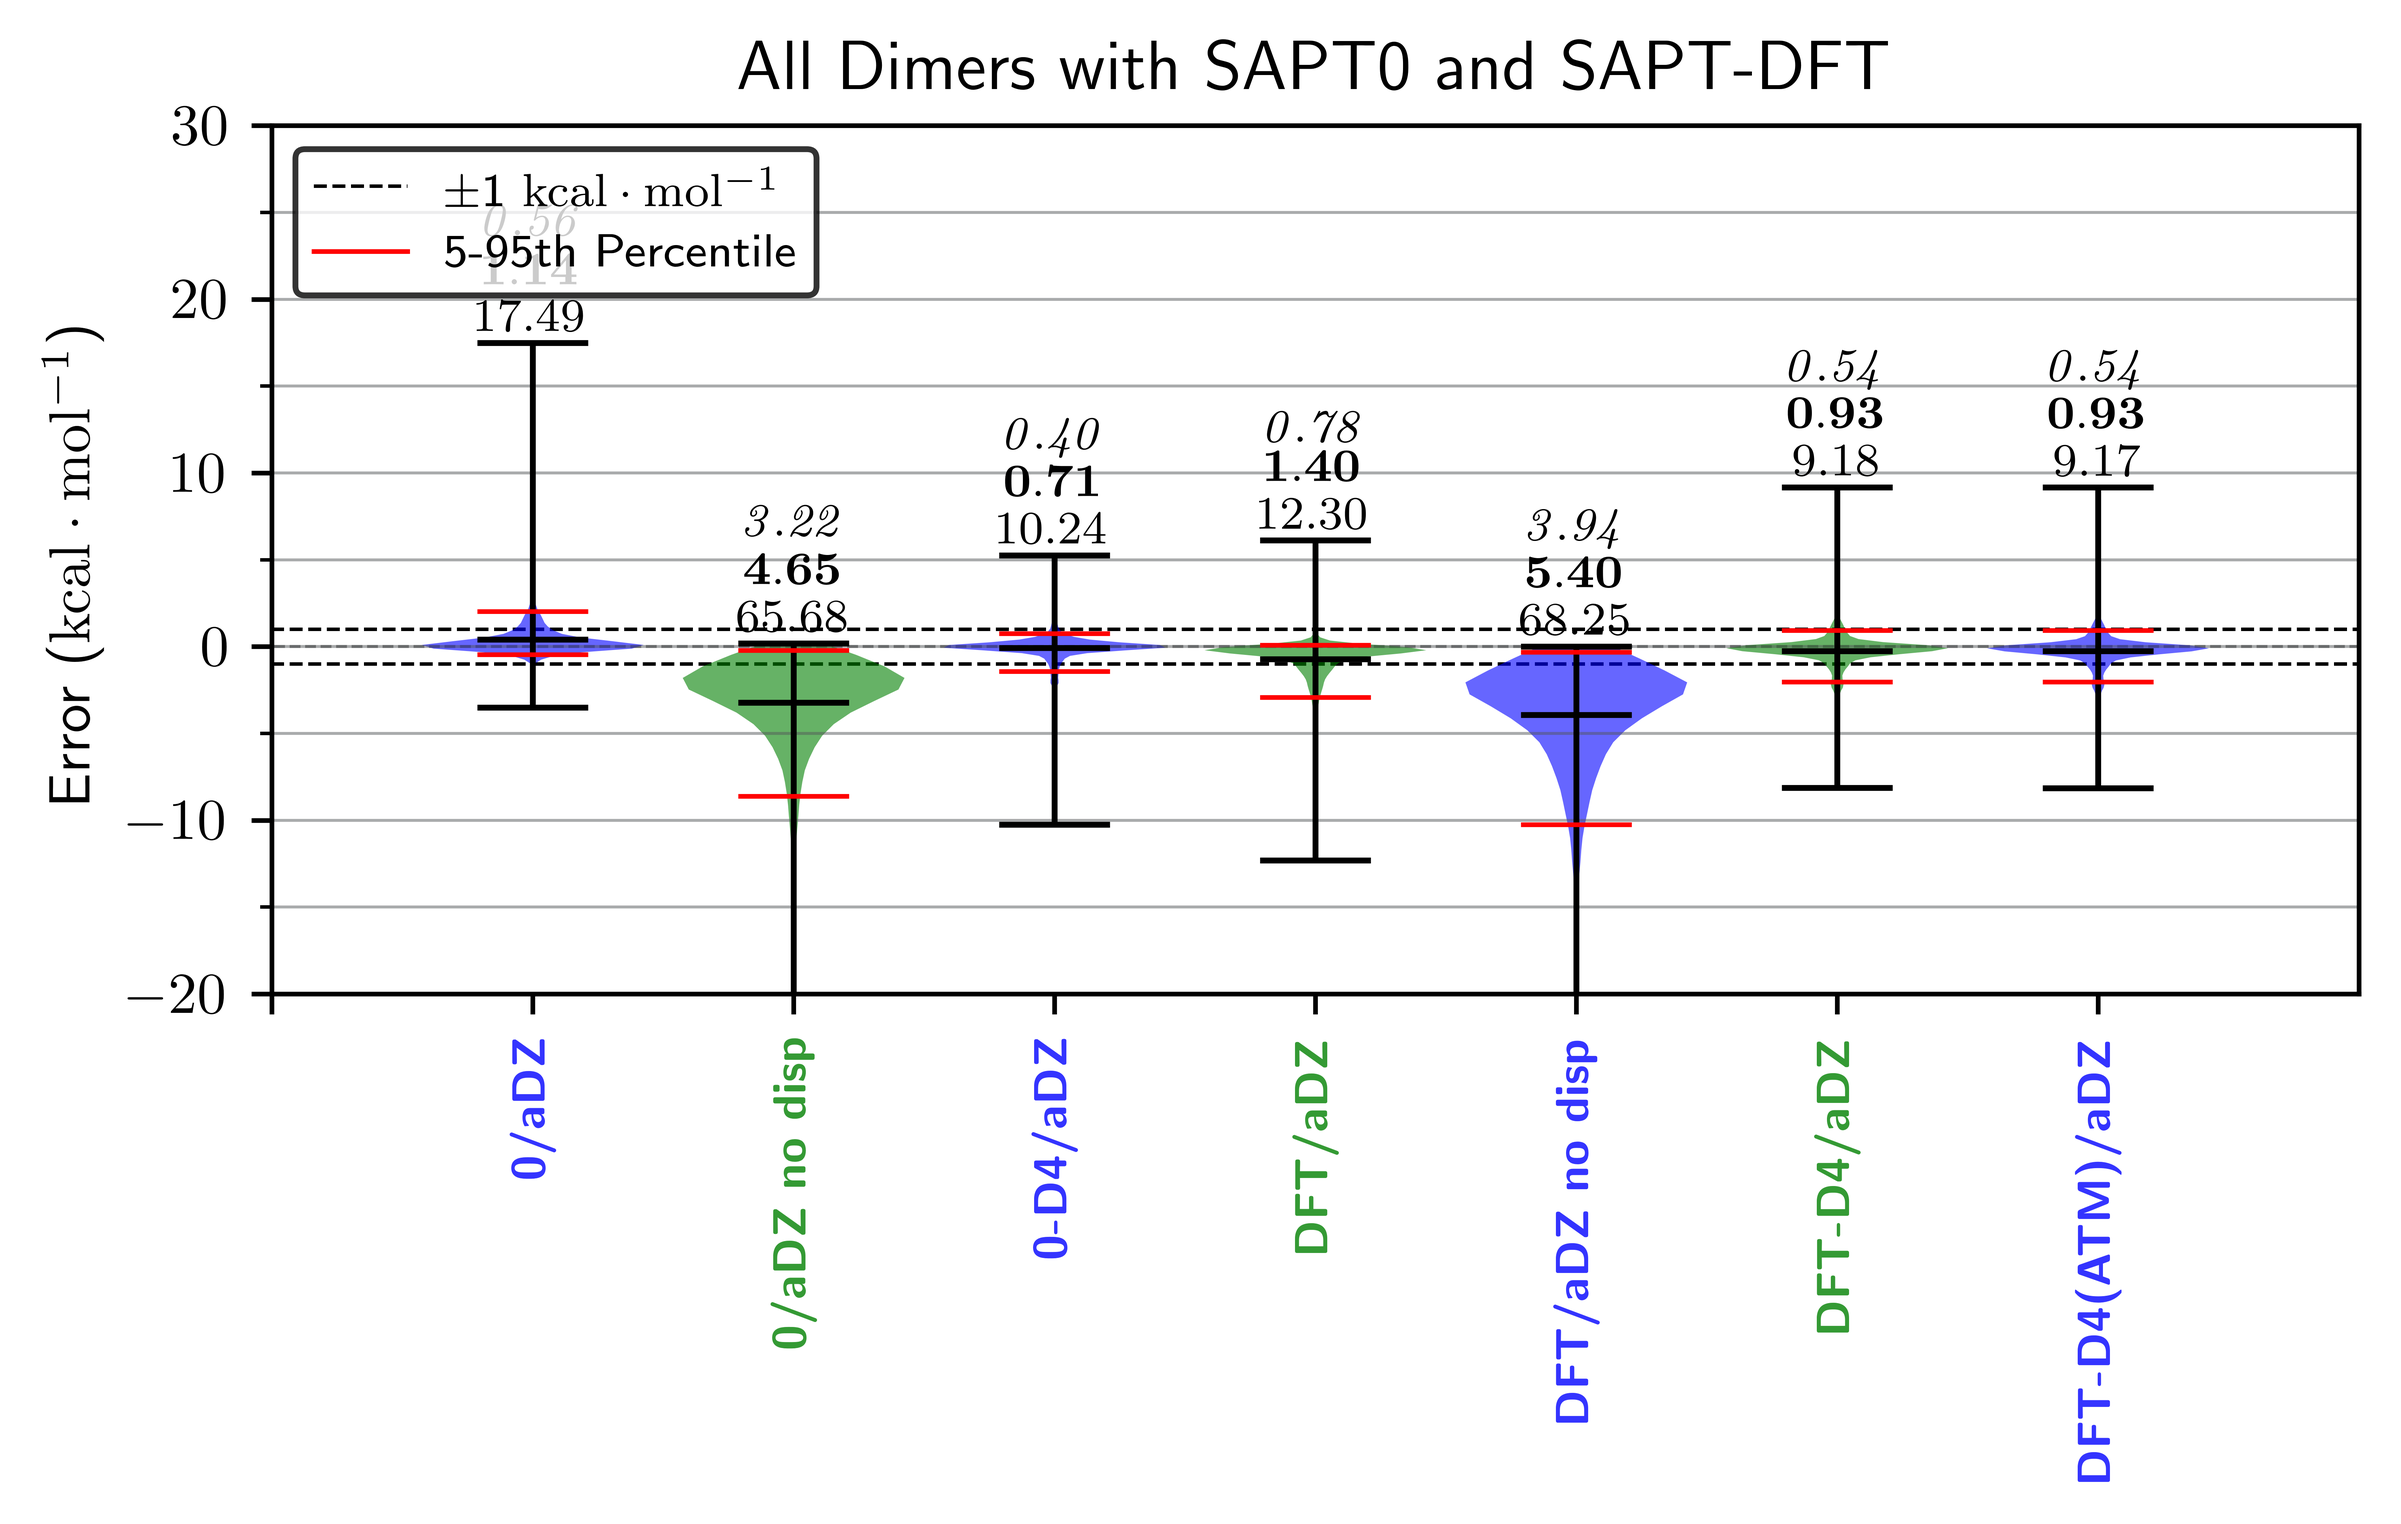
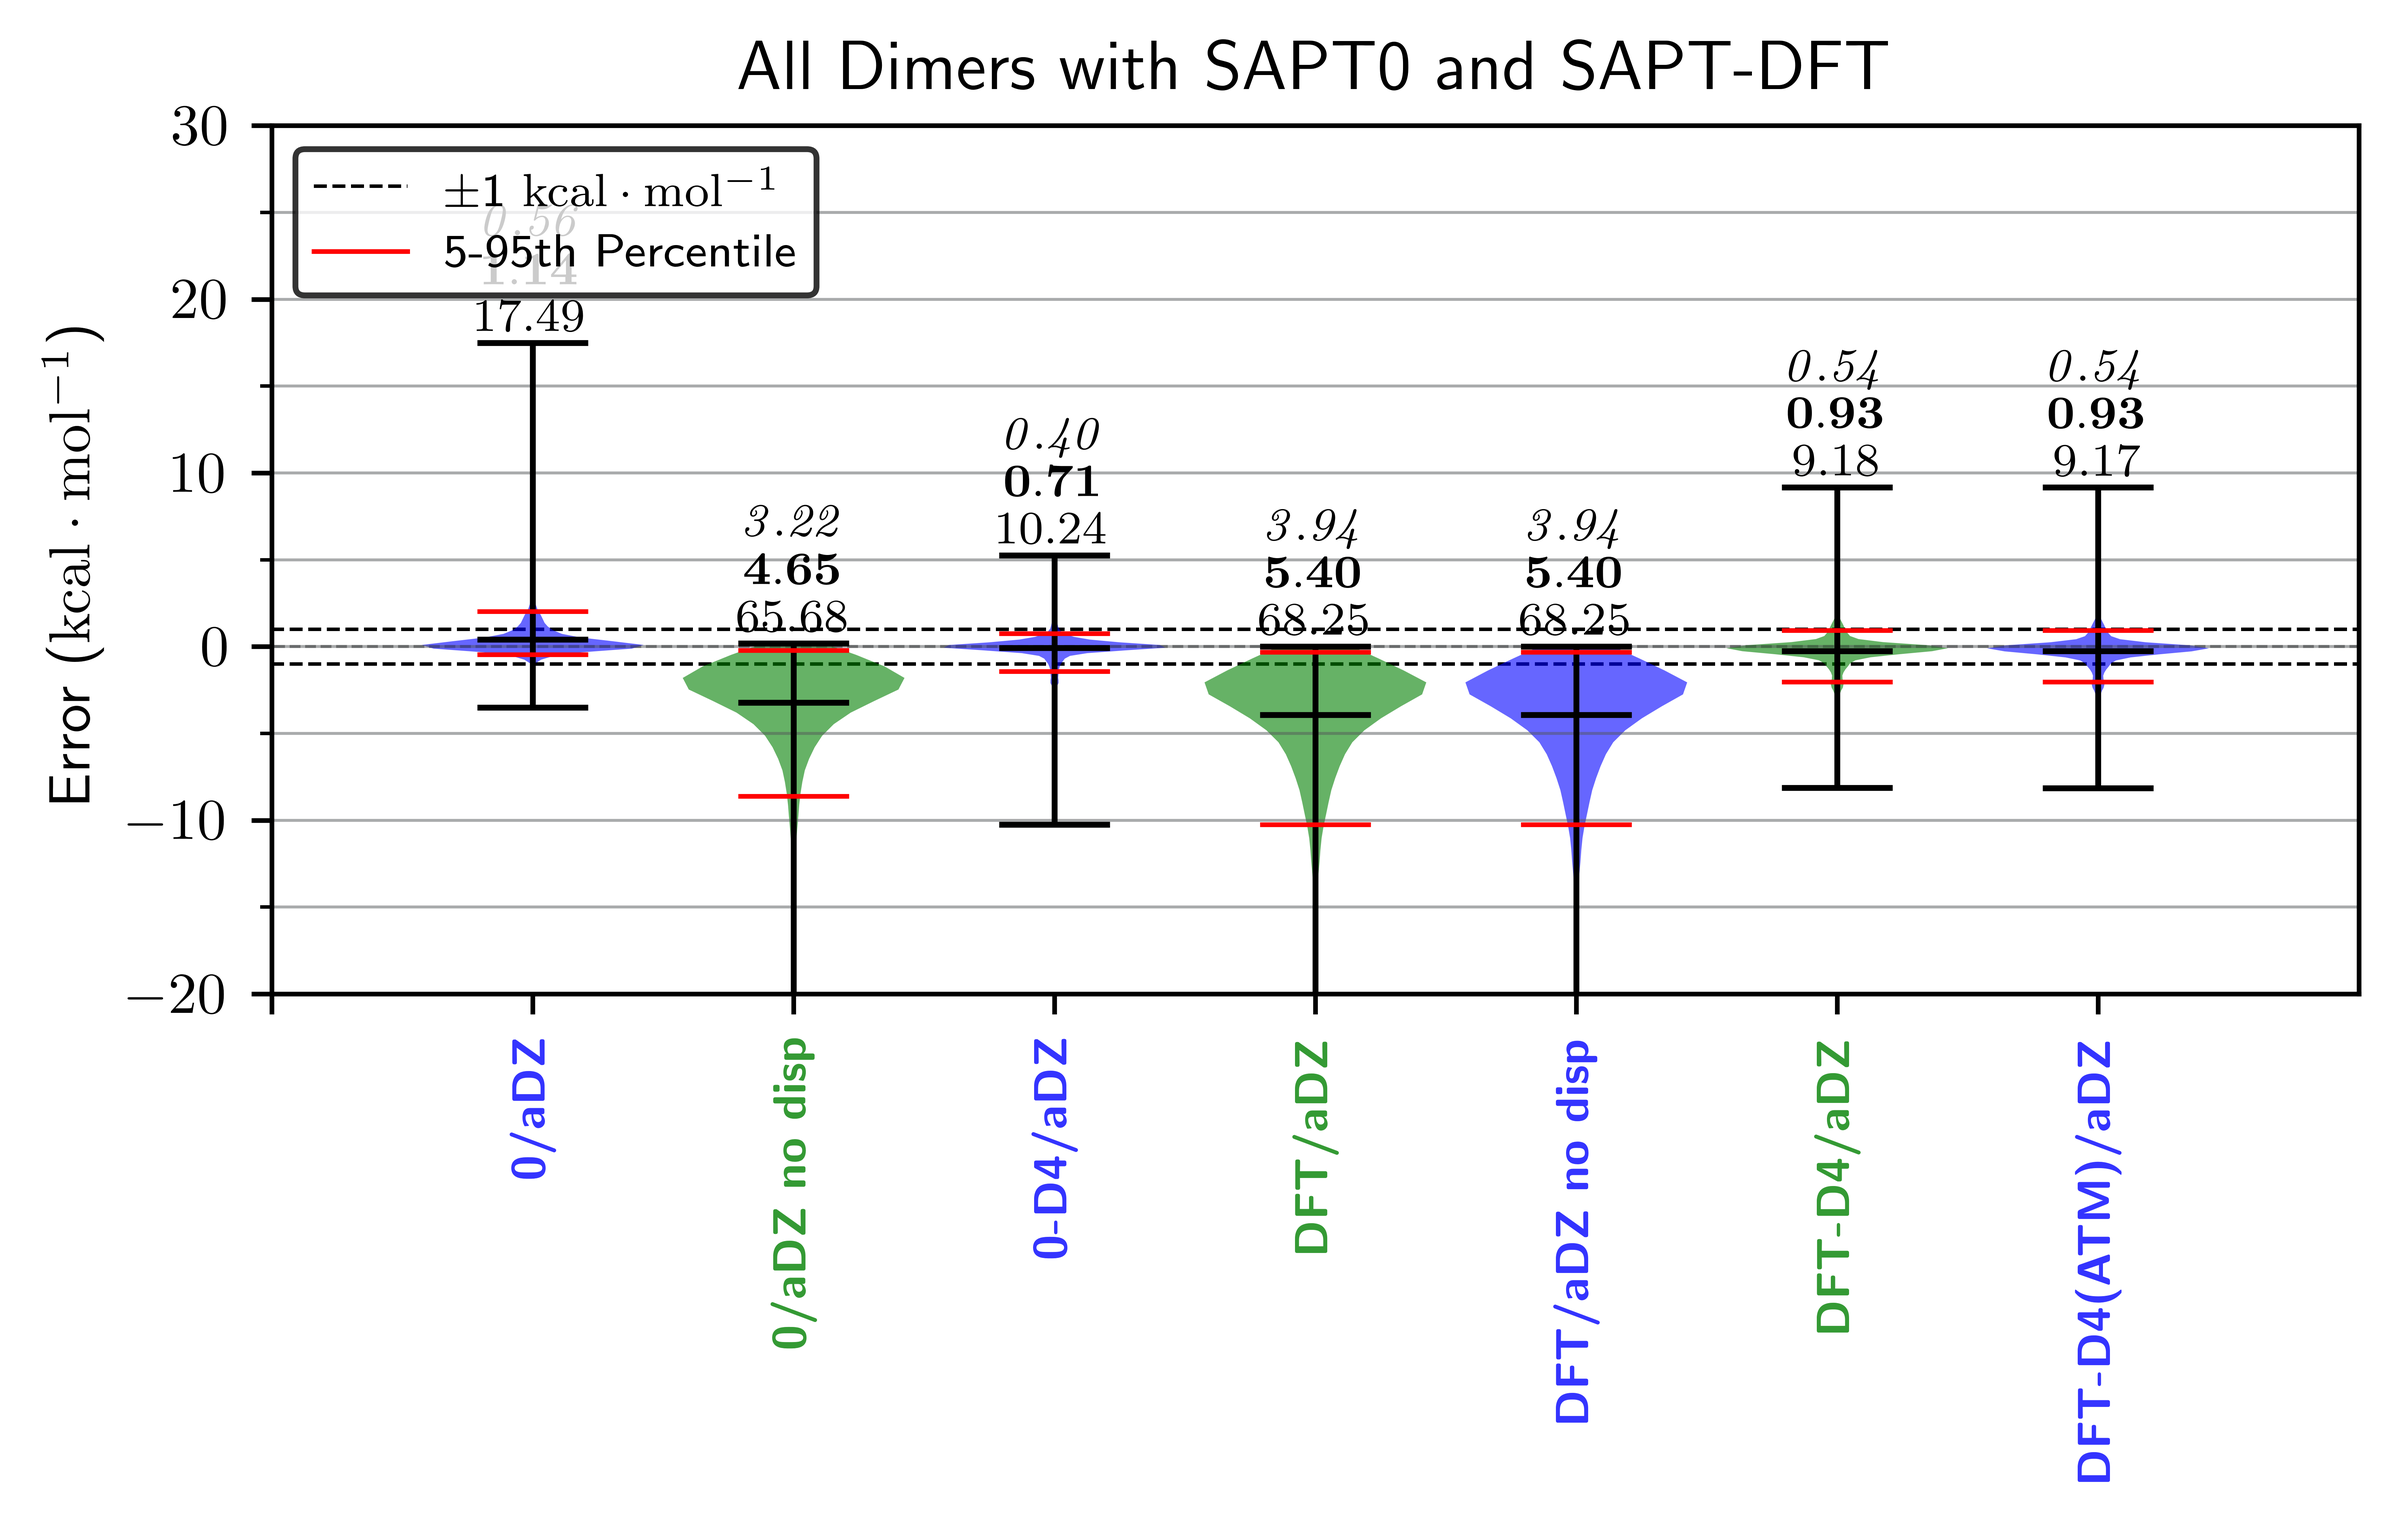
comp

Changed region(s): [[0.4977, 0.2795, 0.5911, 0.5901]]

diff --git a/src/plotting.py b/src/plotting.py
@@ -1371,7 +1371,7 @@ def plot_violin_SAPT0_DFT_components(
     },
     three_total_vals={
         "name": "(Elst. + Exch. + Indu.)",
-        "reference": ["SAPT0/aDZ Ref.", "SAPT0_adz_3_IE"],
+        "reference": ["CCSD(T)/CBS Ref.", "Benchmark"],
         "vals": {
             "SAPT(DFT)/aDZ": "SAPT_DFT_adz_3_IE",
             "SAPT(DFT)/aTZ": "SAPT_DFT_atz_3_IE",
@@ -1379,7 +1379,7 @@ def plot_violin_SAPT0_DFT_components(
     },
     total_vals={
         "name": "(Elst. + Exch. + Indu. + Disp.)",
-        "reference": ["SAPT0/aDZ Ref.", "SAPT0_adz_total"],
+        "reference": ["CCSD(T)/CBS Ref.", "Benchmark"],
         "vals": {
             "SAPT(DFT)/aDZ": "SAPT_DFT_adz_total",
             "SAPT(DFT)/aTZ": "SAPT_DFT_atz_total",
@@ -1402,7 +1402,7 @@ def plot_violin_SAPT0_DFT_components(
     three_total_ax = axs[2, 0]
     total_ax = axs[2, 1]
     # add extra space for subplot titles
-    fig.subplots_adjust(hspace=0.3, wspace=0.3)
+    fig.subplots_adjust(hspace=0.6, wspace=0.3)
 
     # Component Data
     elst_data, elst_labels, elst_annotations = collect_component_data(df, elst_vals)
